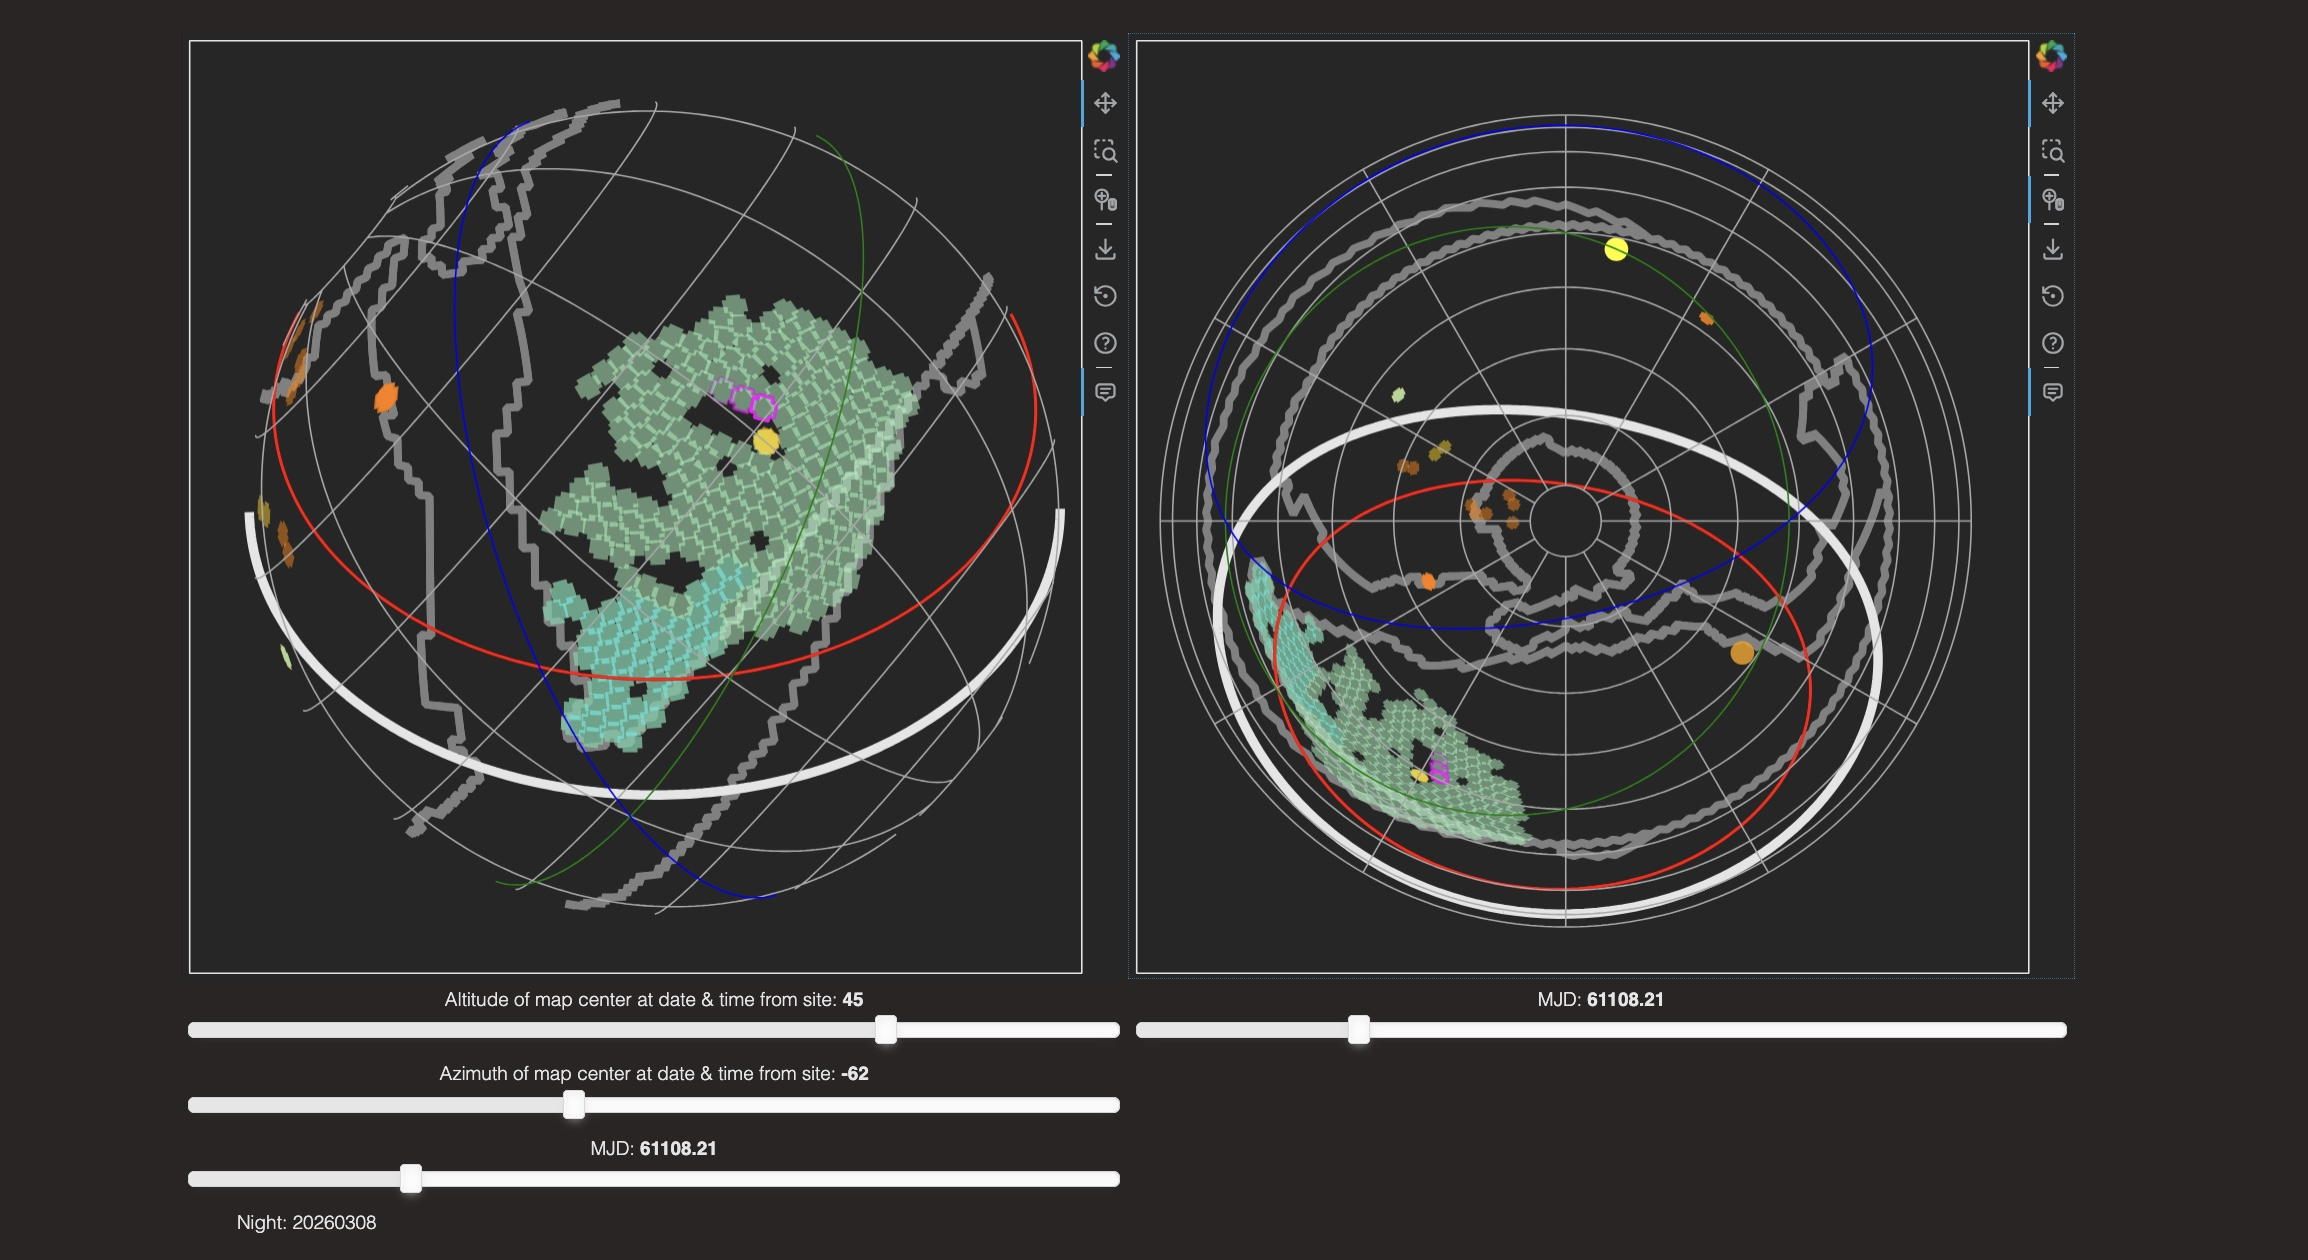
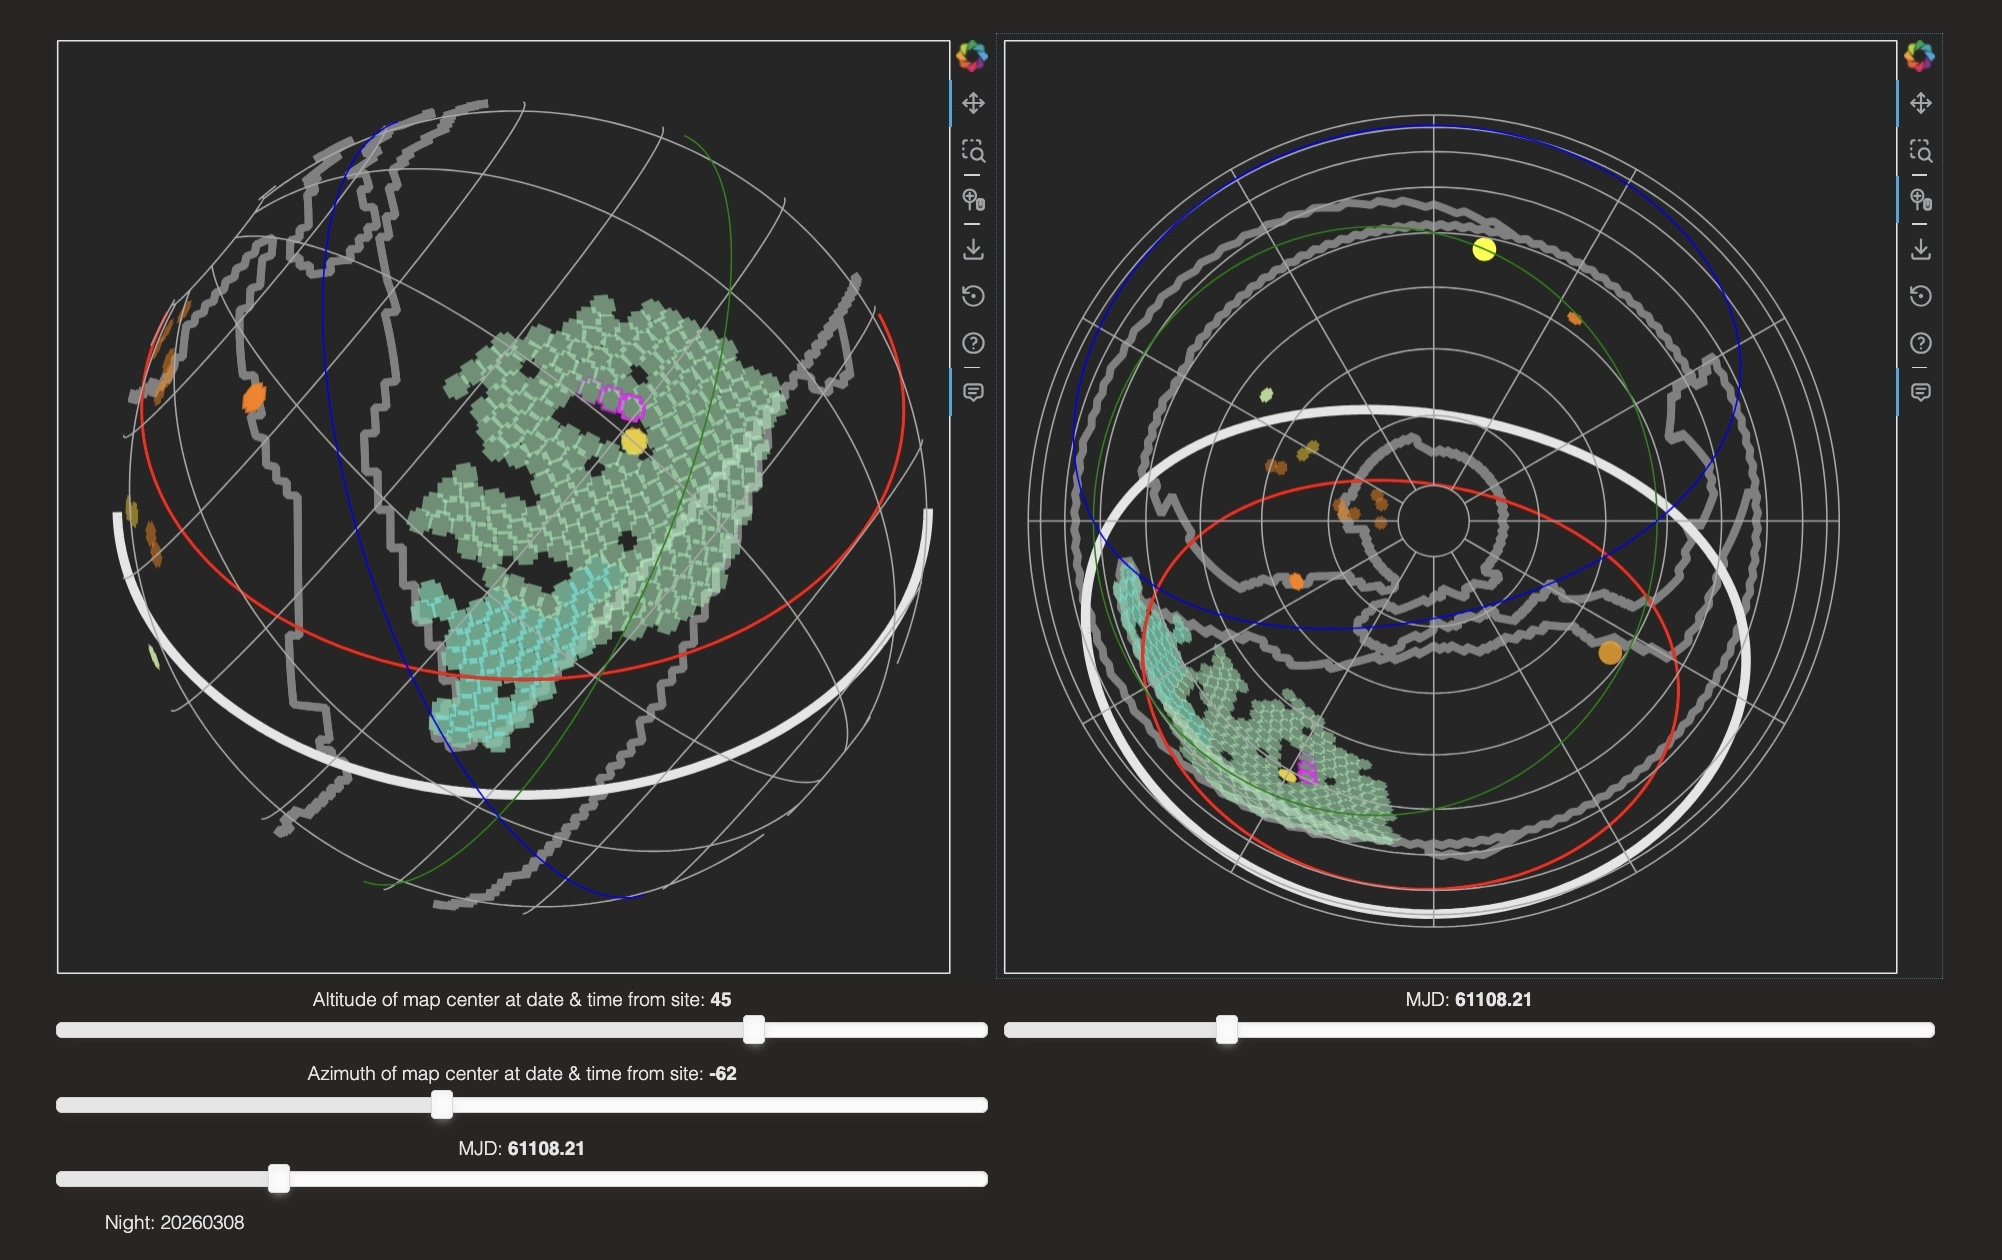
Update image and keywords

diff --git a/body.tex b/body.tex
@@ -1,3 +1,11 @@
+% Include a list of keywords after the abstract
+\keywords{Vera C. Rubin Observatory,
+Observatory Operations,
+Performance Metrics,
+Dashboard User Interface,
+Operations Monitoring,
+Nightly Performance}
+
 \section{INTRODUCTION}
 \label{sec:intro}  % \label{} allows reference to this section
 